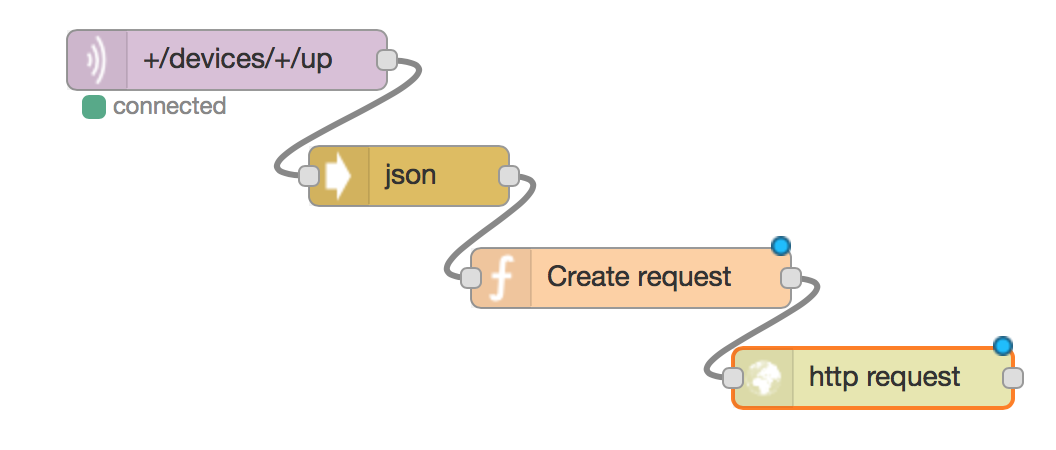
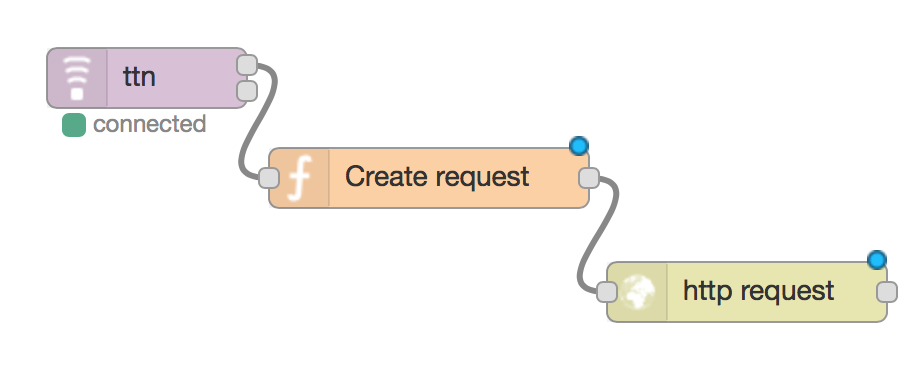
update workshop to incorporate the TTN node-RED node

Changed region(s): [[0.0303, 0.0591, 0.9697, 0.9167]]

diff --git a/workshops/TheThingsUno/README.md b/workshops/TheThingsUno/README.md
@@ -263,25 +263,17 @@ In this tutorial, we are using Node RED to get the data from The Things Network
 routing services and push it to an application back-end.
 
 1. Follow the instructions from your workshop facilitator to get to your Node
-   RED environment;
-2. From the **input** category in the toolbox on the left, drop a new **MQTT**
+   RED environment
+2. From the **input** category in the toolbox on the left, drop a new **TTN**
    node on your workflow
-3. Double-click the node named `mqtt`
-4. Click on the pencil icon next to **Add new mqtt-broker...**
-5. Enter for **Server**: `staging.thethingsnetwork.org`
-6. Go to **Security**
-7. Enter in **Username** your AppEUI (check the Application page)
-8. Enter in **Password** your Access Key (check the Application page)
+3. Double-click the node named `ttn`
+7. Enter in **App EUI** your AppEUI (check the Application page)
+8. Enter in **Access Key** your Access Key (check the Application page)
+5. Enter for **Broker**: `staging.thethingsnetwork.org`
 9. Click **Add**
-10. Enter in **Topic**: `+/devices/+/up`. This subscribes you to all devices in
-    your application
-11. From the **function** category, drop a new **JSON** node on the flow and
-    connect the output of the `+/devices/+/up` node to the input of the `json`
-    node
-12. From the **output** category, drop a new **debug** node on the flow and
-    connect the output of the **json** node to the input of the **debug** node.
-13. Double click the debug node and select **message property** from the Ouput
-    dropdown. Enter `msg.payload.fields` in the box below. And click **Ok**.
+10. From the **output** category, drop a new **debug** node on the flow and
+    connect the upper output of the **ttn** node to the input of the **debug**
+    node.
 
 Your flow should look like this:
 
@@ -291,7 +283,7 @@ Your flow should look like this:
 Click **Deploy** and monitor the debug tab for incoming messages. You will start
 seeing messages like:
 ```
-{ temperature: 21.5 }
+{ "temperature": 21.5 }
 ```
 
 
@@ -315,7 +307,7 @@ seeing messages like:
 ```
 return {
     payload: {
-        value1: msg.payload.fields.temperature
+        value1: msg.payload.temperature
     }
 }
 ```
